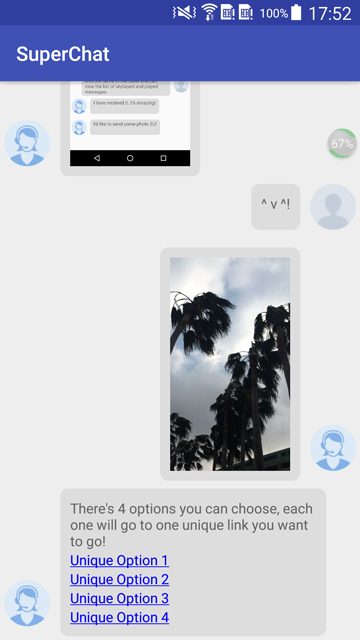
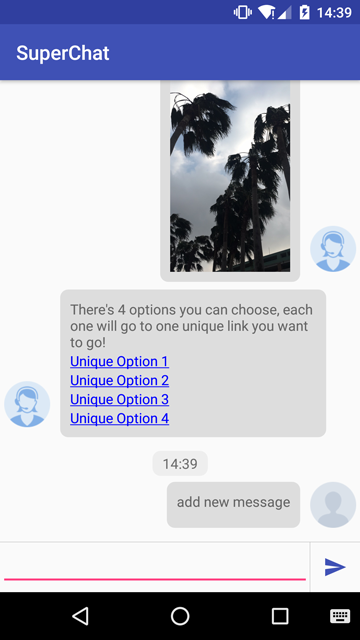
1.content clickable, click event; 2.send new message.

diff --git a/library/src/main/java/cn/yueying0083/superchat/adapter/ChatAdapter.java b/library/src/main/java/cn/yueying0083/superchat/adapter/ChatAdapter.java
@@ -15,6 +15,7 @@ import java.util.concurrent.TimeUnit;
 import cn.yueying0083.libaray.R;
 import cn.yueying0083.superchat.model.BaseMessage;
 import cn.yueying0083.superchat.utils.ImageLoader;
+import cn.yueying0083.superchat.view.ChatListView;
 
 /**
  * Created by yueying_0083@qq.com on 2017/3/30.
@@ -25,6 +26,7 @@ public class ChatAdapter extends BaseAdapter {
     private List<BaseMessage> mChatList;
     private ImageLoader mImageLoader;
     private TimelineFormatter mTimelineFormatter;
+    private ChatListView.OnMessageClickListener mOnMessageClickListener;
 
     public ChatAdapter(List<BaseMessage> chatList) {
         this.mChatList = chatList;
@@ -42,6 +44,10 @@ public class ChatAdapter extends BaseAdapter {
         if (mTimelineFormatter != null) {
             notifyDataSetChanged();
         }
+    }
+
+    public void setOnMessageClickListener(ChatListView.OnMessageClickListener onMessageClickListener) {
+        mOnMessageClickListener = onMessageClickListener;
     }
 
     @Override
@@ -87,7 +93,7 @@ public class ChatAdapter extends BaseAdapter {
         vh.contentLeft.removeAllViews();
         vh.contentRight.removeAllViews();
 
-        BaseMessage model = getItem(position);
+        final BaseMessage model = getItem(position);
 
         long prevTime = position > 0 ? getItem(position - 1).getChatDateTime() : -1L;
 
@@ -120,8 +126,17 @@ public class ChatAdapter extends BaseAdapter {
                 break;
         }
 
-        content.setBackgroundResource(model.needBackground() ? R.drawable.bg_content_normal : android.R.color.transparent);
+        // content.setBackgroundResource(model.needBackground() ? R.drawable.bg_content_selector : android.R.color.transparent);
+        content.setClickable(true);
         content.addView(model.getChatContentView(parent.getContext()));
+        content.setOnClickListener(new View.OnClickListener() {
+            @Override
+            public void onClick(View v) {
+                if (mOnMessageClickListener != null) {
+                    mOnMessageClickListener.onClick(model.getId());
+                }
+            }
+        });
         if (model.enableAvatar()) {
             avatar.setVisibility(View.VISIBLE);
             if (mImageLoader != null) {

diff --git a/library/src/main/java/cn/yueying0083/superchat/view/ChatListView.java b/library/src/main/java/cn/yueying0083/superchat/view/ChatListView.java
@@ -8,6 +8,7 @@ import android.util.Log;
 import android.view.LayoutInflater;
 import android.view.View;
 import android.widget.AbsListView;
+import android.widget.AdapterView;
 import android.widget.ListView;
 
 import java.util.Collections;
@@ -30,6 +31,7 @@ public class ChatListView extends ListView {
     private static final int ONE_DAY_SEC = Long.valueOf(TimeUnit.DAYS.toSeconds(1)).intValue();
 
     private ChatAdapter mChatAdapter;
+    private OnMessageClickListener mOnMessageClickListener;
 
     private boolean mEnableLoadPrev;// enable load prev chat data
     private View mHeaderView;// head view show loading prev data progress
@@ -68,6 +70,7 @@ public class ChatListView extends ListView {
         setTranscriptMode(TRANSCRIPT_MODE_NORMAL);
 
         mChatAdapter = new ChatAdapter(null);
+        mChatAdapter.setOnMessageClickListener(mOnMessageClickListener);
         setAdapter(mChatAdapter);
     }
 
@@ -180,10 +183,11 @@ public class ChatListView extends ListView {
     /**
      * Add message
      *
-     * @param chat chat add at bottom
+     * @param message message add at bottom
      */
-    public void newChat(BaseMessage chat) {
-
+    public void newMessage(BaseMessage message) {
+        mChatAdapter.add(message);
+        setSelection(mChatAdapter.getCount() - 1);
     }
 
     public void setTimelineFormatter(ChatAdapter.TimelineFormatter timelineFormatter) {
@@ -194,6 +198,11 @@ public class ChatListView extends ListView {
         mPrevMessageLoader = prevMessageLoader;
     }
 
+    public void setOnMessageClickListener(OnMessageClickListener onMessageClickListener) {
+        mOnMessageClickListener = onMessageClickListener;
+        mChatAdapter.setOnMessageClickListener(mOnMessageClickListener);
+    }
+
     /**
      *
      */
@@ -202,6 +211,17 @@ public class ChatListView extends ListView {
          * We would like to load old data into chat list when scroll to top.
          */
         public List<BaseMessage> getPrevMessage();
+    }
+
+    public interface OnMessageClickListener {
+        public void onClick(int id);
+    }
+
+    /**
+     * Message Content
+     */
+    public interface OnMessageContentClickListener {
+
     }
 
 }

diff --git a/example/src/main/java/cn/yueying0083/superchat/MainActivity.java b/example/src/main/java/cn/yueying0083/superchat/MainActivity.java
@@ -2,6 +2,10 @@ package cn.yueying0083.superchat;
 
 import android.support.v7.app.AppCompatActivity;
 import android.os.Bundle;
+import android.text.TextUtils;
+import android.widget.EditText;
+import android.widget.ImageButton;
+import android.widget.Toast;
 
 import com.google.gson.Gson;
 import com.orhanobut.logger.Logger;
@@ -12,6 +16,7 @@ import java.util.List;
 
 import butterknife.BindView;
 import butterknife.ButterKnife;
+import butterknife.OnClick;
 import cn.yueying0083.superchat.model.BaseMessage;
 import cn.yueying0083.superchat.model.LinkMessage;
 import cn.yueying0083.superchat.model.TextMessage.*;
@@ -24,6 +29,9 @@ public class MainActivity extends AppCompatActivity {
 
     @BindView(R.id.clv)
     ChatListView chatListView;
+
+    @BindView(R.id.et_input)
+    EditText editText;
 
     private ImageDisplay mImageDisplay;
     private boolean prevLoaded = false;
@@ -64,6 +72,12 @@ public class MainActivity extends AppCompatActivity {
         chatListView.setImageLoader(mImageDisplay);
         chatListView.setTimelineFormatter(new MyTimelineFormatter());
         chatListView.setPrevMessageLoader(mPrevMessageLoader);
+        chatListView.setOnMessageClickListener(new ChatListView.OnMessageClickListener() {
+            @Override
+            public void onClick(int id) {
+                Toast.makeText(MainActivity.this, "you click on " + id, Toast.LENGTH_SHORT).show();
+            }
+        });
         chatListView.updateList(messageList);
     }
 
@@ -96,4 +110,13 @@ public class MainActivity extends AppCompatActivity {
             return null;
         }
     };
+
+    @OnClick(R.id.btn_send)
+    synchronized void sendMessage() {
+        String msg = editText.getText().toString();
+        if (!TextUtils.isEmpty(msg)) {
+            chatListView.newMessage(new RightTextMessage(editText.getText().toString(), System.currentTimeMillis(), "file:///android_asset/right.png"));
+            editText.setText(null);
+        }
+    }
 }

diff --git a/README.md b/README.md
@@ -80,6 +80,21 @@ Time line consider to be message's label, TimelineFormatter give you an implemen
     });
 ```
 
+Click Event
+-----------
+```java
+    chatListView.setOnMessageClickListener(new ChatListView.OnMessageClickListener() {
+        @Override
+        public void onClick(int id) {
+            switch (id){
+                case xxx:
+                    ....
+                    break;
+            }
+        }
+    });
+```
+
 Prev Load
 ---------
 ```xml
@@ -135,5 +150,6 @@ LinkMessage allow you to create rich TextMessage, add links to options
 
 # To be continue
 - More Components: ~~LinkMessage~~, FeedbackMessage, MusicMessage...
-- Input area.
-- Clickable.
+- ~~Input area~~.
+- ~~Clickable~~.
+- Message loadable: send message progress.
